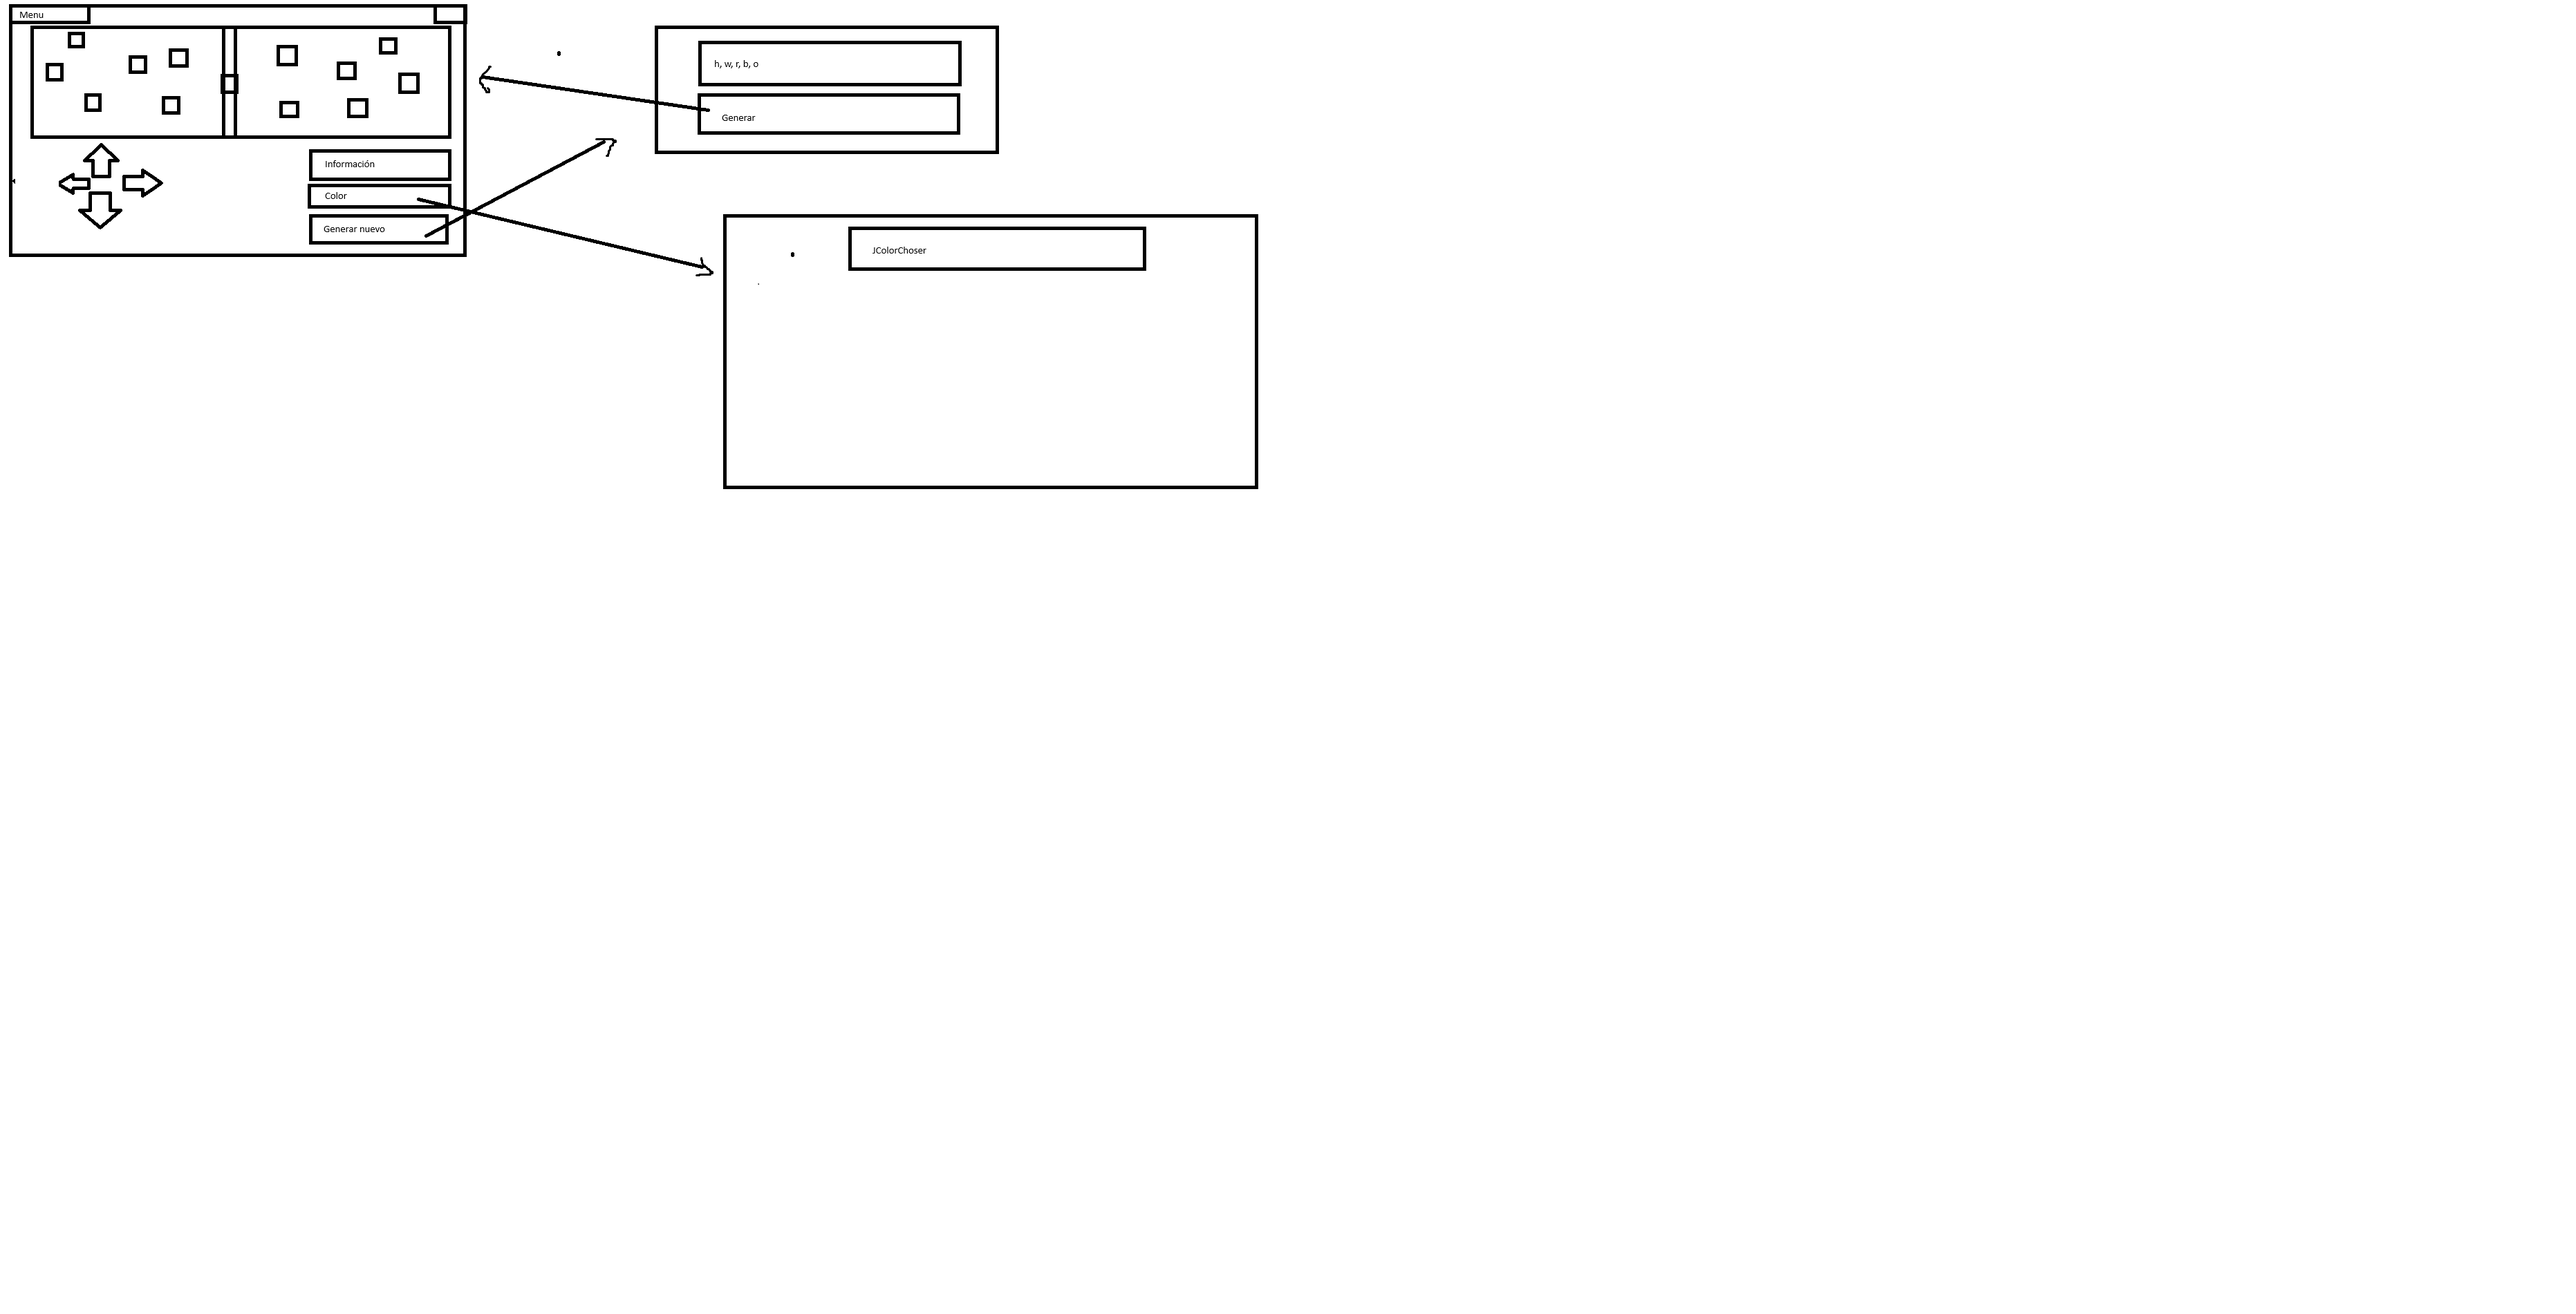
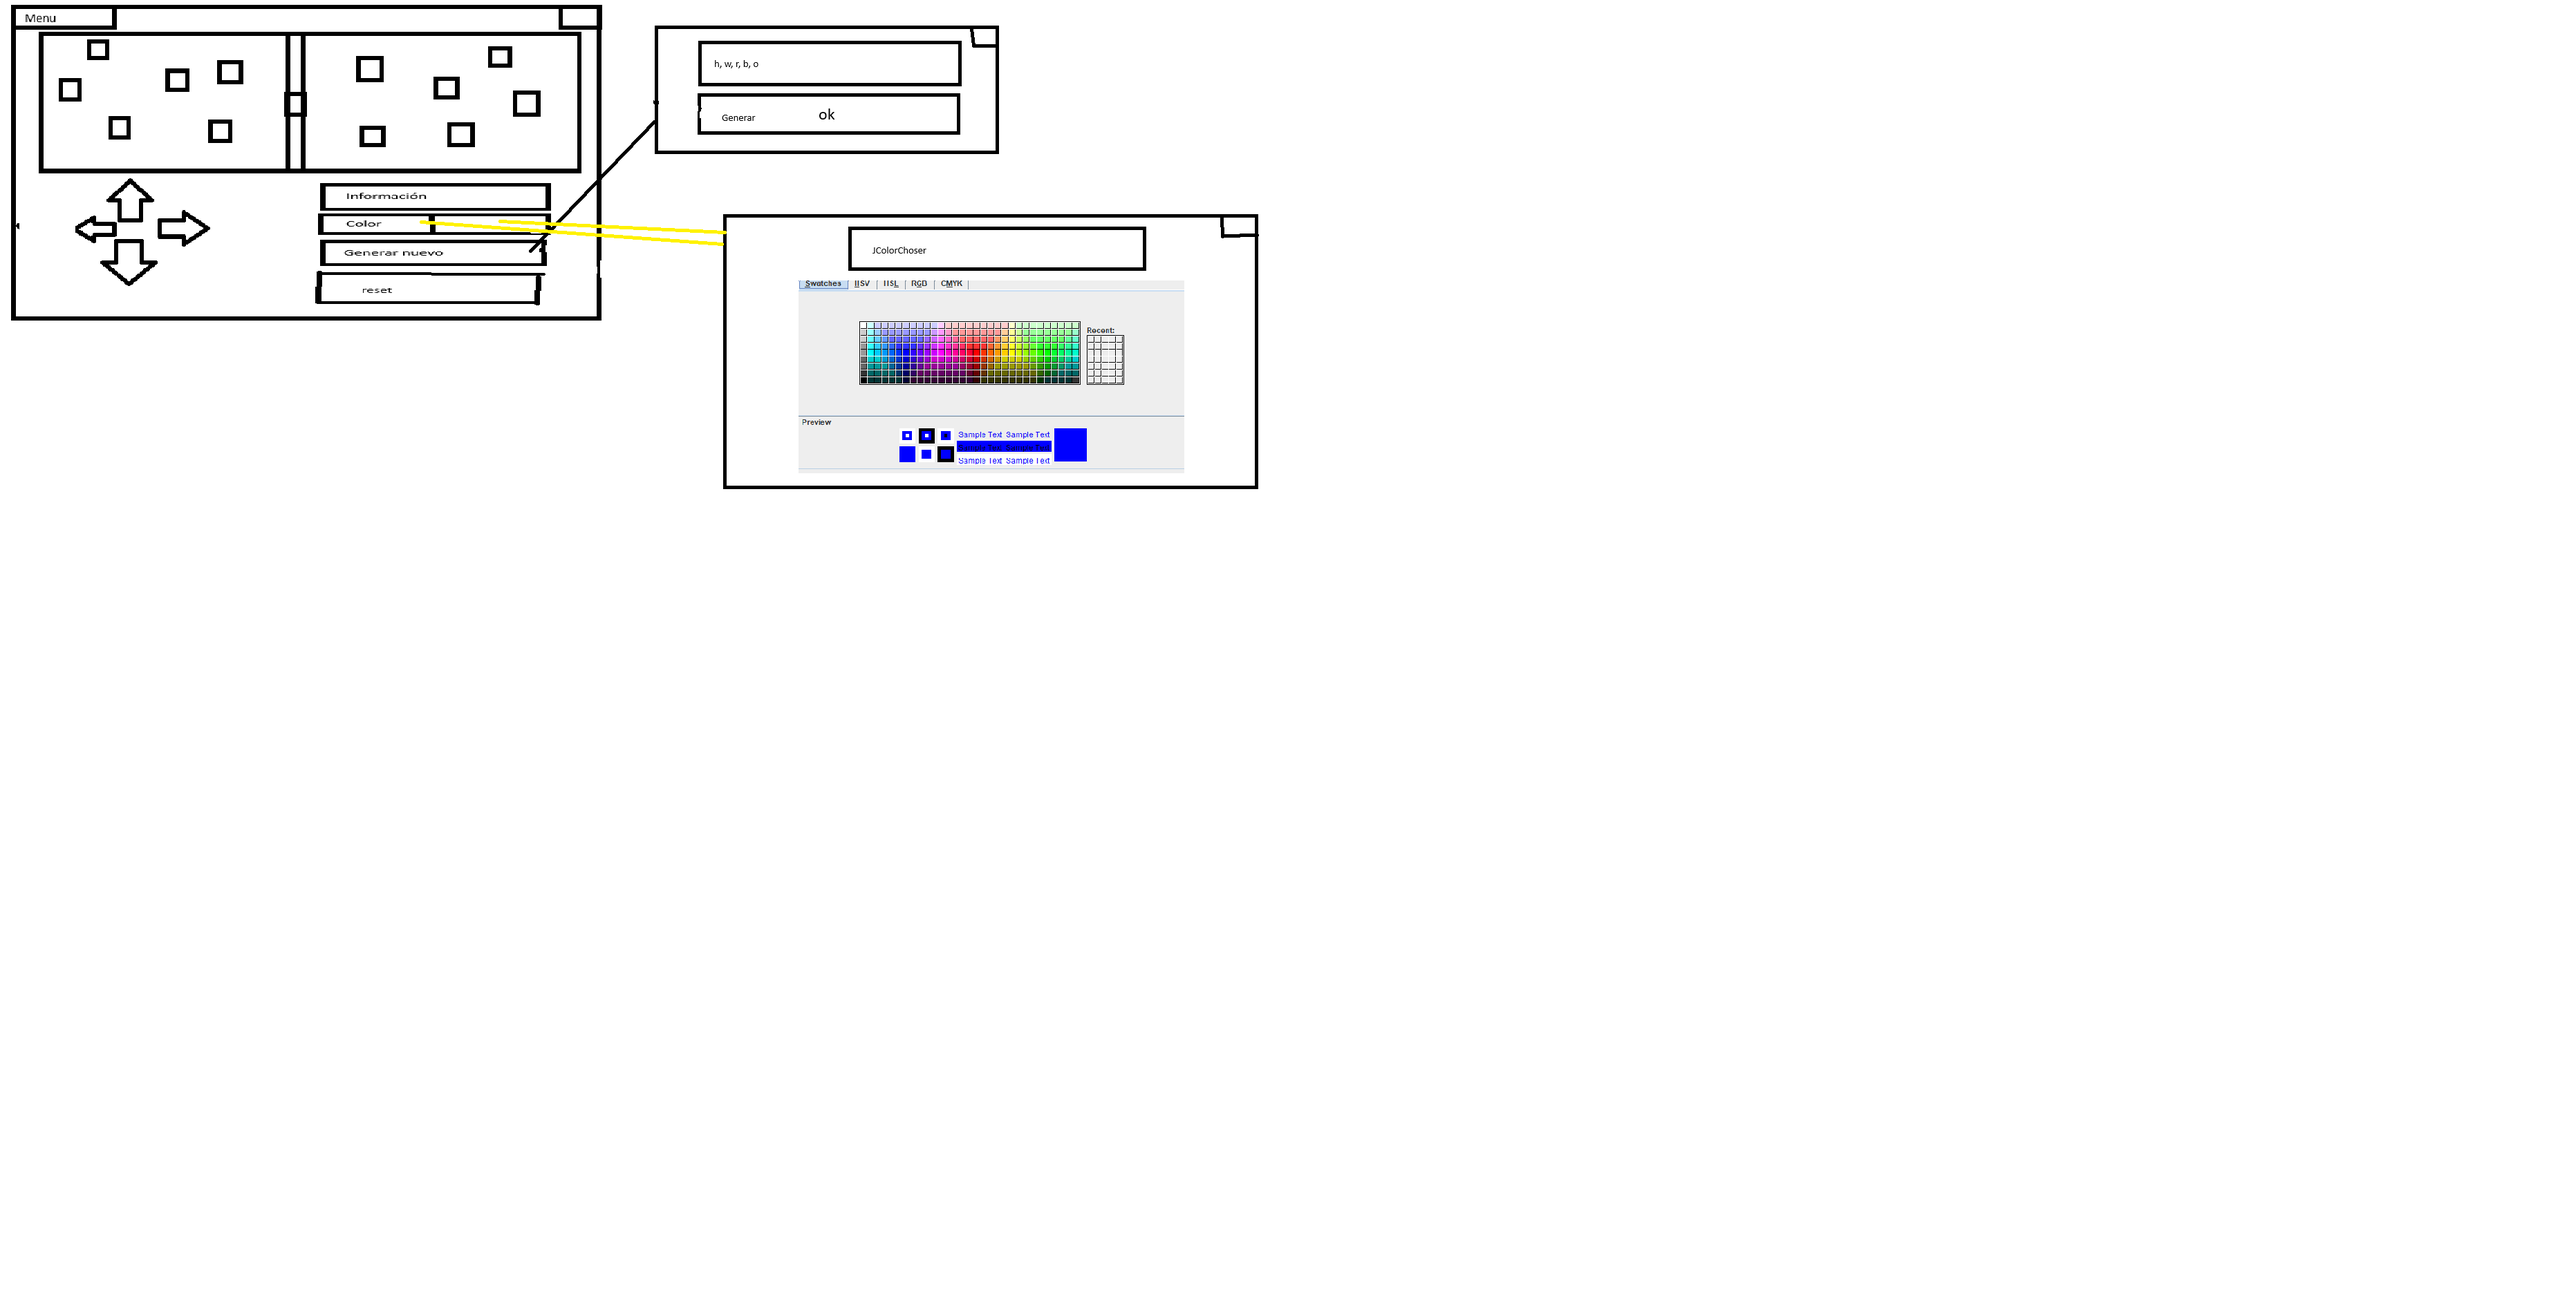
sigue el verdadero prota

Changed region(s): [[0.0, 0.0, 0.2802, 0.2482], [0.3113, 0.2171, 0.4359, 0.3722]]

diff --git a/LAB 05/DMaxwell/src/presentation/DMaxwellGUI.java b/LAB 05/DMaxwell/src/presentation/DMaxwellGUI.java
@@ -23,7 +23,7 @@ public class DMaxwellGUI extends JFrame{
     private JFileChooser fileChooser;
     private JColorChooser colorChooser;
     private JLabel informacion;
-    private maxwell tablero;
+    private Maxwell tablero;
 
     private DMaxwell domain;
 
@@ -41,6 +41,8 @@ public class DMaxwellGUI extends JFrame{
         colorChooser = new JColorChooser();
         prepareElementsMenu();
         prepareElementsBoard();
+        setFocusable(true); //par teclas
+
     }
 
     public void prepareActions(){
@@ -109,7 +111,19 @@ public class DMaxwellGUI extends JFrame{
                 newDMaxwell();
             }
         });
+        
+        addKeyListener(new KeyAdapter() {
+            @Override
+            public void keyPressed(KeyEvent e){
+                if(e.getKeyChar() == 'w') movement('u');
+                if (e.getKeyChar() == 's') movement('d');
+                if (e.getKeyChar() == 'd') movement('r');
+                if (e.getKeyChar() == 'a') movement('l');
+            }
+        });
+
     }
+
 
     private void prepareElementsMenu(){
         JMenuBar menu = new JMenuBar ();
@@ -132,11 +146,10 @@ public class DMaxwellGUI extends JFrame{
     }
 
     private void prepareElementsBoard(){
-        tablero = new maxwell(domain.container());
+        tablero = new Maxwell(domain.container());
         add(tablero);
-
         JPanel south = new JPanel(new FlowLayout(FlowLayout.CENTER, 20, 10));
-        
+
         JPanel panelBotones = new JPanel(new BorderLayout());
         north = new JButton("↑");
         south1 = new JButton("↓");
@@ -151,7 +164,6 @@ public class DMaxwellGUI extends JFrame{
         panelBotones.add(nada, BorderLayout.CENTER);
         south.add(panelBotones);
 
-        
         JPanel panelInformacion = new JPanel(new GridLayout(4,1));
         informacion = new JLabel("Informacion:  Azules:" + domain.results()[0]+ "%  Rojas: "+  domain.results()[1]+ "% Total:" +  domain.results()[2]+ "% Perdidas:"+ domain.results()[3]+ "% ");
         JPanel botonesColor = new JPanel(new GridLayout(1,2));
@@ -167,7 +179,6 @@ public class DMaxwellGUI extends JFrame{
         panelInformacion.add(reboot);
         south.add(panelInformacion);
         add(south);
-
     }
     private void exit(){
         int option = JOptionPane.showConfirmDialog(this,"Estas seguro de que quieres salir?",
@@ -252,9 +263,12 @@ public class DMaxwellGUI extends JFrame{
 
                 domain = new DMaxwell(h,2*w,r,b,o);
                 remove(tablero);
-                tablero = new maxwell(h,w,domain.container());
+                tablero = new Maxwell(h,w,domain.container());
                 add(tablero,0);
                 refresh();
+            }
+            catch (DMaxwellException e){
+                System.out.println("No se puede. " + e.getMessage());
             }
             catch (Exception e){
                 System.out.println("No se puede. " + e.getMessage());
@@ -262,15 +276,6 @@ public class DMaxwellGUI extends JFrame{
         }
     }
     
-    public void imprimirMatriz(int[][] matriz) {
-        for (int i = 0; i < matriz.length; i++) {
-            System.out.print("Fila " + i + ": ");
-            for (int j = 0; j < matriz[i].length; j++) {
-                System.out.print(matriz[i][j] + " ");
-            }
-            System.out.println();
-        }
-    }
     
 
 
@@ -286,7 +291,8 @@ public class DMaxwellGUI extends JFrame{
     private void resetDMaxwell(){
         domain = new  DMaxwell();
         remove(tablero);
-        tablero = new maxwell(domain.container());
+        tablero = new Maxwell(domain.container());
+        tablero.reset();
         add(tablero,0);
         refresh();
     }

diff --git a/LAB 05/DMaxwell/src/presentation/maxwell.java b/LAB 05/DMaxwell/src/presentation/maxwell.java
@@ -3,7 +3,7 @@ import javax.swing.*;
 import java.awt.*;
 
 
-public class maxwell extends JPanel{
+public class Maxwell extends JPanel{
         private JPanel Panel;
         private static Color color1 = Color.RED;
         private static Color color2 = Color.BLUE;
@@ -15,18 +15,19 @@ public class maxwell extends JPanel{
         private  int[] ParticulasBlue;
         private  int[] wall;
 
-    public maxwell(int newH, int newW,int [][] info ){
+
+    public Maxwell(int newH, int newW,int [][] info ){
         this(newH,newW);
         setVariables(info);
         paintComponents();
     }
-    public maxwell(int [][] info){
+    public Maxwell(int [][] info){
         this(11,20);
         setVariables(info);
         paintComponents();
     }
     
-    public maxwell(int newH, int newW){
+    public Maxwell(int newH, int newW){
         h = newH;
         w = newW;
         setLayout(new GridLayout(1,1));
@@ -109,7 +110,10 @@ public class maxwell extends JPanel{
         repaint();
 
     }
-    
+    public void reset(){
+        color1 = Color.RED;
+        color2 = Color.BLUE;
+    }
 
 
 

diff --git a/LAB 05/DMaxwell/src/domain/DMaxwell.java b/LAB 05/DMaxwell/src/domain/DMaxwell.java
@@ -12,7 +12,7 @@ public class DMaxwell {
     private int contB = 10;
     private final int posDemonDefault = 225;
     private final int[] paredDefault = {20,61,102,143,184,225,266,307,348,389,430};
-    private final int[] blueDefault = {43,52,139,254,291,343,67,201,228,310}; // 226 -> 228
+    private final int[] blueDefault = {43,52,139,254,291,343,67,201,226,310}; // 226 -> 228
     private final int[] redDefault = {48,55,126,336,79,112,193,277,326,360};
     private final int[] defaultHoles = {116,129,175,288,356,364};
 
@@ -48,7 +48,13 @@ public class DMaxwell {
         //imprimirMatriz(red);
         //imprimirMatriz(holes);
         imprimirMatriz(wall);
+        print("demon " + posDemon);
+        
     }
+    private void print(Object o){
+        System.out.println(o);
+    }
+
 
     private void createNewItems(){
         Random random = new Random();
@@ -103,6 +109,7 @@ public class DMaxwell {
         int contador = 0;
         while(i < variable){
             wall[contador] = i;
+            
             if((int) variable/2 == i){
                 posDemon = i;
             }
